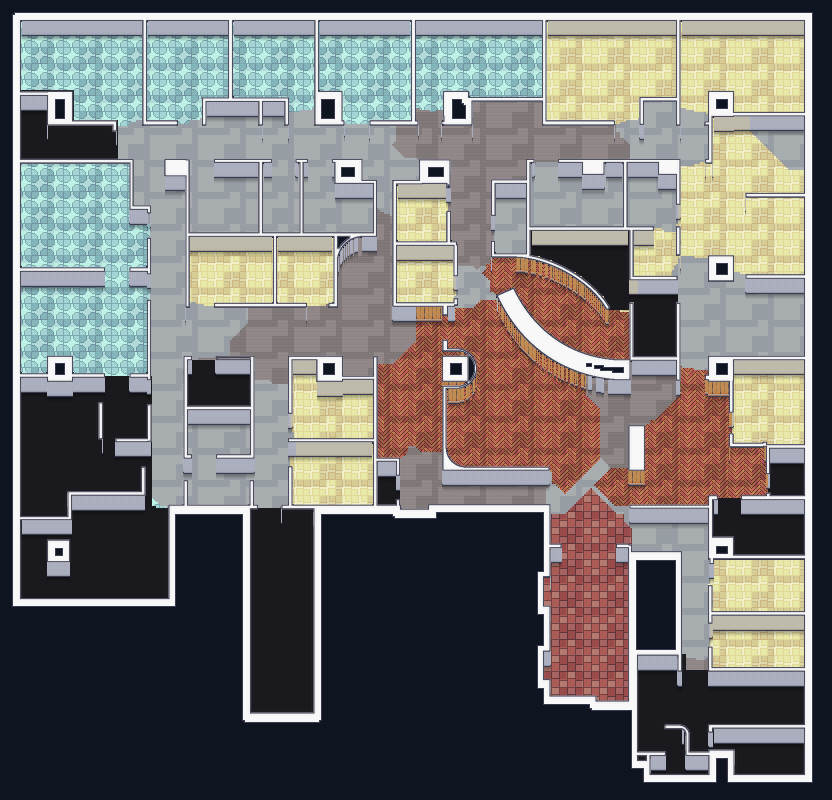
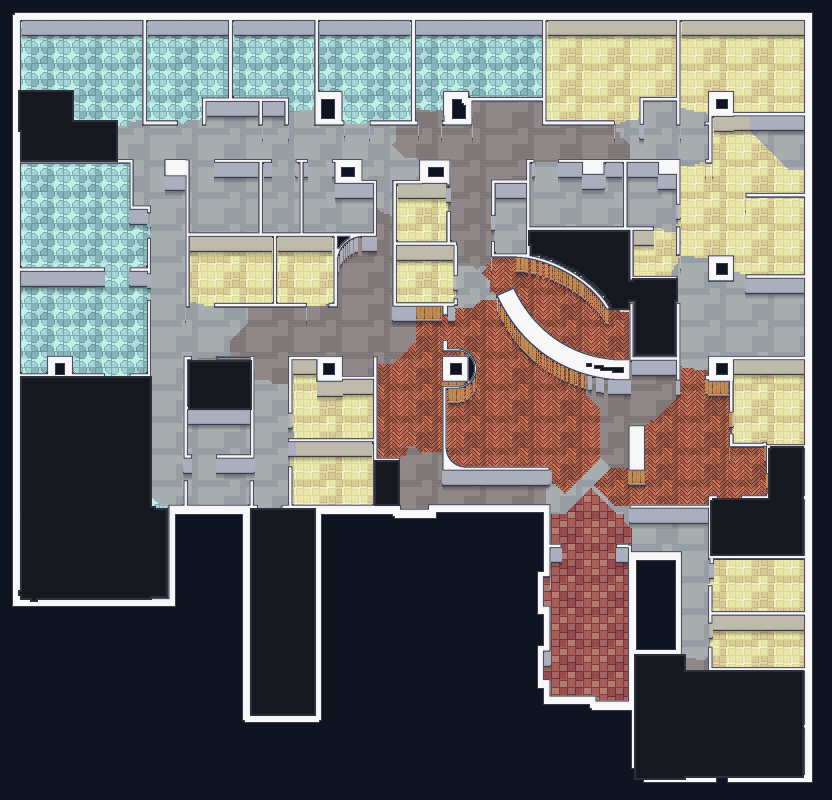
환자용 화면에서 통제구역은 벽까지 덮는다
벽보다 먼저 칠하니 검은 바닥 위로 벽선이 그대로 지나가 어색했다. 손님 화면에서
이 구역은 "방이 있는데 못 들어가는 곳" 이 아니라 **애초에 없는 곳** 으로 보여야
자연스럽다 — 건물 밖과 같은 취급이다. 그래서 벽을 다 그린 뒤에 덮는다.

잘린 자리가 허공처럼 보이지 않게 경계에 한 겹 두른다.

diff --git a/tools/build-pixel-map.py b/tools/build-pixel-map.py
@@ -41,7 +41,9 @@ DEFAULT_ASSETS = r"C:\Users\LG gram\Desktop\메디트레커(가칭)\에셋\Moder
 
 # 직원 전용 구역 바닥색 — 환자 화면에서 "못 들어가는 곳" 으로 읽혀야 하므로
 # 다른 방보다 확실히 어둡게 (완전 검정은 건물 밖(void)과 헷갈린다)
-STAFF_RGB = (26, 26, 30)
+STAFF_RGB = (22, 24, 32)
+# 경계선 — 덮은 자리가 허공처럼 보이지 않게 한 겹 두른다
+STAFF_EDGE_RGB = (44, 48, 60)
 
 T = 16          # 타일 한 변 (출력 px) — 에셋 타일 크기
 # 타일 한 칸이 담는 도면 px. 도면 1px ≈ 1.62cm 이므로 32px ≈ 52cm.
@@ -391,41 +393,6 @@ def main():
     for mat, mask in masks.items():
         img.paste(layers[mat], (0, 0), mask)
 
-    # ── 3.5 직원 전용 구역을 검게 덮는다 ────────────────────────────────────
-    # 환자 화면에서 "여긴 못 들어가는 곳" 이 한눈에 보여야 한다. 바닥 무늬로만 구분하면
-    # (concrete) 그냥 다른 방으로 보인다.
-    #
-    # ⚠ 구역을 **방 분할(segment_rooms)로 뽑지 않는다.** 한 번 그렇게 해봤는데 v2 도면은
-    #    문을 안 그려서 방이 복도로 새어 나갔고, 그 결과 복도까지 직원 구역으로 먹었다
-    #    (완전히 막고 재보니 환자 구역 56조합 중 42개가 서로 못 닿았다 = 복도가 끊겼다).
-    #    도면에 칠한 색으로 정한다 — 이 도면의 규칙이 원래 "색이 곧 의미" 다.
-    staff_mask_path = os.path.join(CFG, "staff-area.json")
-    if os.path.exists(staff_mask_path):
-        sm = json.load(open(staff_mask_path, encoding="utf-8"))
-        smask = Image.new("L", img.size, 0)
-        sdraw = ImageDraw.Draw(smask)
-        n_staff = 0
-        for r in range(min(sm["rows"], walk.rows)):
-            row = sm["grid"][r]
-            c = 0
-            while c < min(sm["cols"], walk.cols):
-                if row[c] != "1":
-                    c += 1
-                    continue
-                s0 = c
-                while c < min(sm["cols"], walk.cols) and row[c] == "1":
-                    n_staff += 1
-                    c += 1
-                sdraw.rectangle(
-                    [int(s0 * cpx), int(r * cpx), int(c * cpx) - 1, int((r + 1) * cpx) - 1],
-                    fill=255,
-                )
-        if n_staff:
-            black = Image.new("RGBA", img.size, STAFF_RGB + (255,))
-            black.putalpha(smask)
-            img.alpha_composite(black)
-        print(f"직원 전용 구역: {n_staff}칸 (staff-area.json)")
-
     counts = {}
     for i, z in enumerate(zones):
         m = mat_for(i)
@@ -556,6 +523,43 @@ def main():
     edge = Image.new("RGBA", (mw, mh), WALL_RGB + (255,))
     edge.putalpha(ImageChops.subtract(cap_mask, cap_mask.filter(ImageFilter.MinFilter(3))))
     img.alpha_composite(edge)
+
+    # ── 6. 손님 통제구역 — **벽까지 덮어** 한 덩어리로 ──────────────────────
+    # 벽보다 먼저 칠하면 검은 바닥 위로 벽선이 그대로 지나가 어색하다. 손님 화면에서
+    # 이 구역은 "방이 있는데 못 들어가는 곳" 이 아니라 **애초에 없는 곳** 으로 보여야
+    # 자연스럽다 — 건물 밖(void)과 같은 취급이다. 그래서 벽을 다 그린 뒤에 덮는다.
+    staff_mask_path = os.path.join(CFG, "staff-area.json")
+    if os.path.exists(staff_mask_path):
+        sm = json.load(open(staff_mask_path, encoding="utf-8"))
+        smask = Image.new("L", img.size, 0)
+        sdraw = ImageDraw.Draw(smask)
+        n_staff = 0
+        cpx2 = walk.cell * MAP_SCALE
+        for r in range(min(sm["rows"], walk.rows)):
+            row = sm["grid"][r]
+            c = 0
+            while c < min(sm["cols"], walk.cols):
+                if row[c] != "1":
+                    c += 1
+                    continue
+                s0 = c
+                while c < min(sm["cols"], walk.cols) and row[c] == "1":
+                    n_staff += 1
+                    c += 1
+                sdraw.rectangle(
+                    [int(s0 * cpx2), int(r * cpx2), int(c * cpx2) - 1, int((r + 1) * cpx2) - 1],
+                    fill=255,
+                )
+        if n_staff:
+            solid = Image.new("RGBA", img.size, STAFF_RGB + (255,))
+            solid.putalpha(smask)
+            img.alpha_composite(solid)
+            # 잘린 자리가 허공처럼 보이지 않게 경계에 얇은 선을 둘러 준다
+            edge = ImageChops.subtract(smask, smask.filter(ImageFilter.MinFilter(5)))
+            rim = Image.new("RGBA", img.size, STAFF_EDGE_RGB + (255,))
+            rim.putalpha(edge)
+            img.alpha_composite(rim)
+        print(f"손님 통제구역: {n_staff}칸 (벽까지 덮음)")
 
     # 타일 격자 크기 그대로 저장한다 (도면 크기로 자르면 마지막 타일이 잘린다)
     img.save(OUT)
